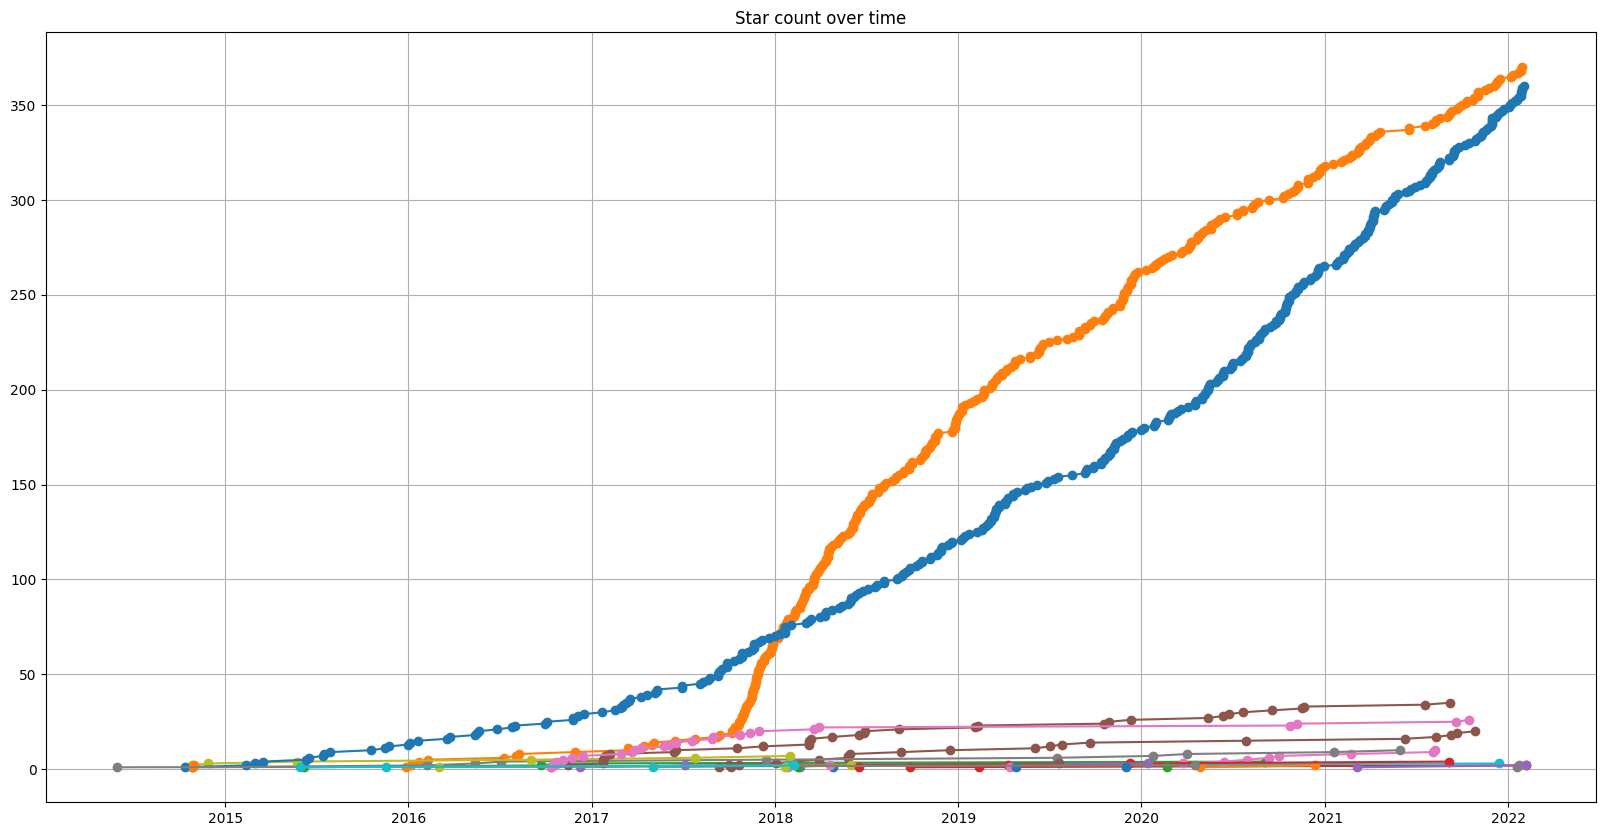
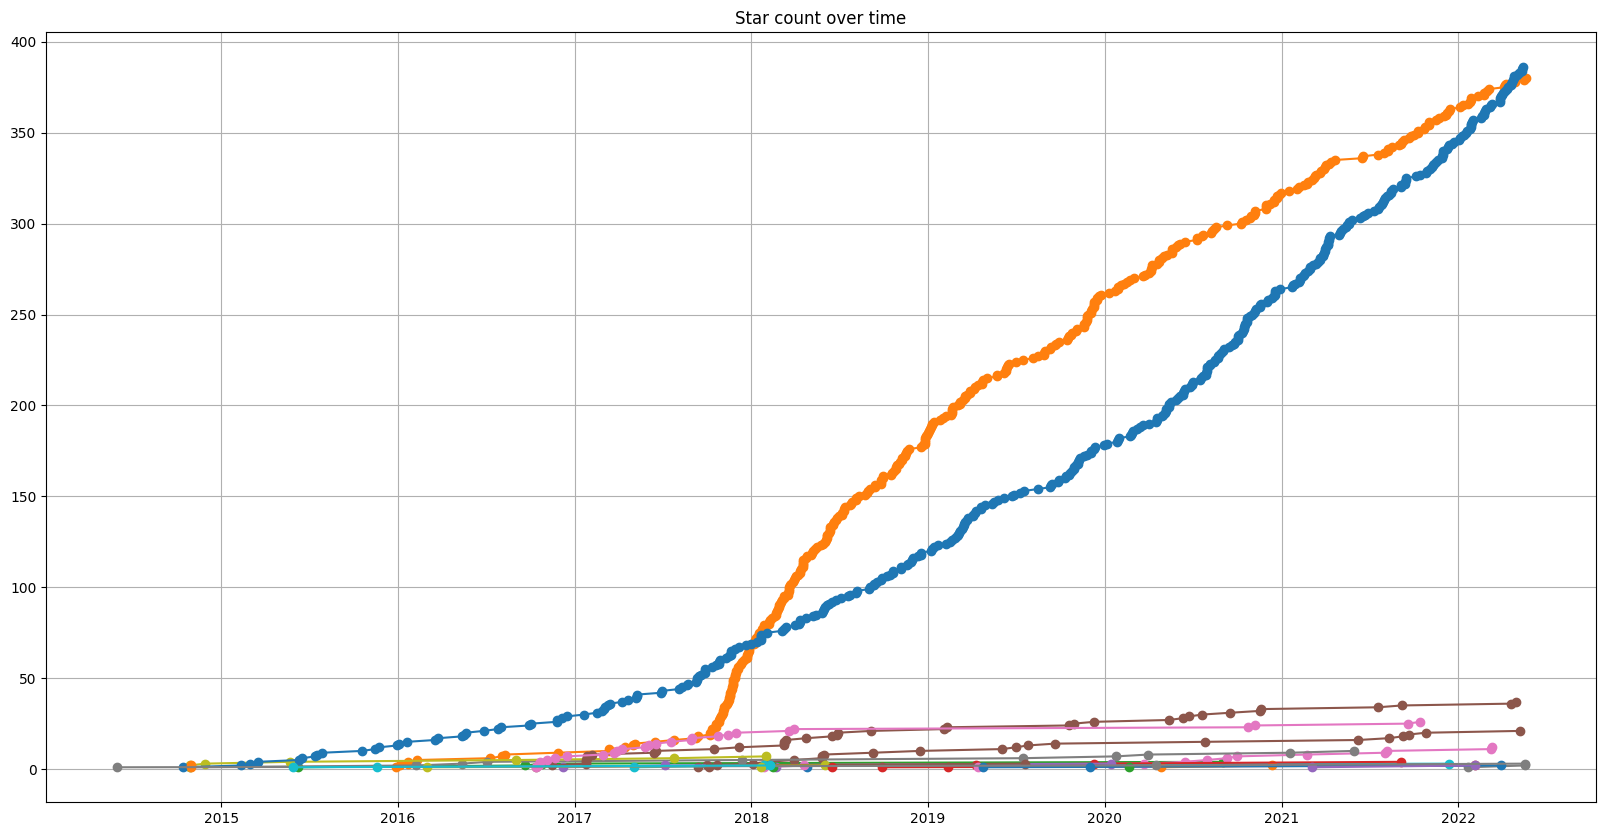
update

diff --git a/README.md b/README.md
@@ -3,7 +3,7 @@
 
 ![star plot](https://raw.github.com/FabriceSalvaire/github-map/master/star-plots/all.png)
 
-Overall stars: 883 :star:
+Overall stars: 926 :star:
 
 ## Python Packages
 
@@ -45,17 +45,17 @@ Overall stars: 883 :star:
 
 ## Python Tools for Developers
 
-* [CodeReview](https://github.com/FabriceSalvaire/CodeReview) 370 :star:</br>
+* [CodeReview](https://github.com/FabriceSalvaire/CodeReview) 380 :star:</br>
 
    CodeReview is a Git GUI tool to perform code review (Diff Viewer) written in Python3 and Qt5.
 
-   Updated on 2022-01-27
+   Updated on 2022-05-20
 
 * [github-map](https://github.com/FabriceSalvaire/github-map)
 
    A summary of my projects on Github (using API and Python)
 
-   Updated on 2021-05-05
+   Updated on 2022-02-06
 
 * [python-memo](https://github.com/FabriceSalvaire/python-memo)
 
@@ -71,17 +71,17 @@ Overall stars: 883 :star:
 
 ### Sphinx Documentation Generator
 
+* [sphinx-css3image](https://github.com/FabriceSalvaire/sphinx-css3image) 3 :star:</br>
+
+   This plugin provides an enhanced image directive with additional CSS properties for Sphinx Documentation Generator.
+
+   Updated on 2022-05-18
+
 * [Pyterate](https://github.com/FabriceSalvaire/Pyterate) 2 :star:</br>
 
    Pyterate is Sphinx add-ons to generate documentation for Python projects
 
    Updated on 2021-05-15
-
-* [sphinx-css3image](https://github.com/FabriceSalvaire/sphinx-css3image) 2 :star:</br>
-
-   This plugin provides an enhanced image directive with additional CSS properties for Sphinx Documentation Generator.
-
-   Updated on 2020-04-15
 
 * [sphinx-microdata](https://github.com/FabriceSalvaire/sphinx-microdata) 2 :star:</br>
 
@@ -181,23 +181,23 @@ Overall stars: 883 :star:
 
 ## Python for Electronic
 
-* [PySpice](https://github.com/FabriceSalvaire/PySpice) 360 :star:</br>
+* [PySpice](https://github.com/PySpice-org/PySpice) 386 :star:</br>
 
    Simulate electronic circuit using Python and the Ngspice / Xyce simulators
 
-   Updated on 2022-01-31
+   Updated on 2022-05-15
 
-* [PyCpuSimulator](https://github.com/FabriceSalvaire/PyCpuSimulator) 10 :star:</br>
+* [PyCpuSimulator](https://github.com/PySpice-org/PyCpuSimulator) 12 :star:</br>
 
    CPU Simulator written in Python
 
-   Updated on 2021-08-07
+   Updated on 2022-03-12
 
-* [PyResistorColorCode](https://github.com/FabriceSalvaire/PyResistorColorCode) 3 :star:</br>
+* [PyResistorColorCode](https://github.com/PySpice-org/PyResistorColorCode) 3 :star:</br>
 
    PyResistorColorCode is a Python module that provides some tools to manage IEC 60062 marking codes for resistors.
 
-   Updated on 2021-12-12
+   Updated on 2022-02-06
 
 ## Python for CAD — CAM - Mechanic
 
@@ -235,11 +235,11 @@ Overall stars: 883 :star:
 
 ## Python for Pattern Drafting
 
-* [Patro](https://github.com/FabriceSalvaire/Patro) 20 :star:</br>
+* [Patro](https://github.com/FabriceSalvaire/Patro) 21 :star:</br>
 
    A Python library to make patterns for fashion design
 
-   Updated on 2021-10-25
+   Updated on 2022-05-08
 
 * [Patro-data](https://github.com/FabriceSalvaire/Patro-data)
 
@@ -351,19 +351,19 @@ Overall stars: 883 :star:
 
 ## Qt
 
-* [qt5-vector-graphic-shaders](https://github.com/FabriceSalvaire/qt5-vector-graphic-shaders) 35 :star:</br>
+* [qt5-vector-graphic-shaders](https://github.com/FabriceSalvaire/qt5-vector-graphic-shaders) 37 :star:</br>
 
    A Qt5 application to experiment vector graphic shaders
 
-   Updated on 2021-09-06
+   Updated on 2022-05-01
 
 ## MuPDF
 
-* [mupdf-cmake](https://github.com/FabriceSalvaire/mupdf-cmake) 1 :star:</br>
+* [mupdf-cmake](https://github.com/FabriceSalvaire/mupdf-cmake) 2 :star:</br>
 
    CMake build for MuPDF
 
-   Updated on 2019-04-25
+   Updated on 2022-03-30
 
 * [mupdf-v1.3](https://github.com/FabriceSalvaire/mupdf-v1.3)
 
@@ -505,7 +505,7 @@ Overall stars: 883 :star:
 
    simavr is a lean, mean and hackable AVR simulator for linux & OSX
 
-   Updated on 2019-08-15
+   Updated on 2022-02-06
 
 * [sphinx-sitemap](https://github.com/FabriceSalvaire/sphinx-sitemap)
 
